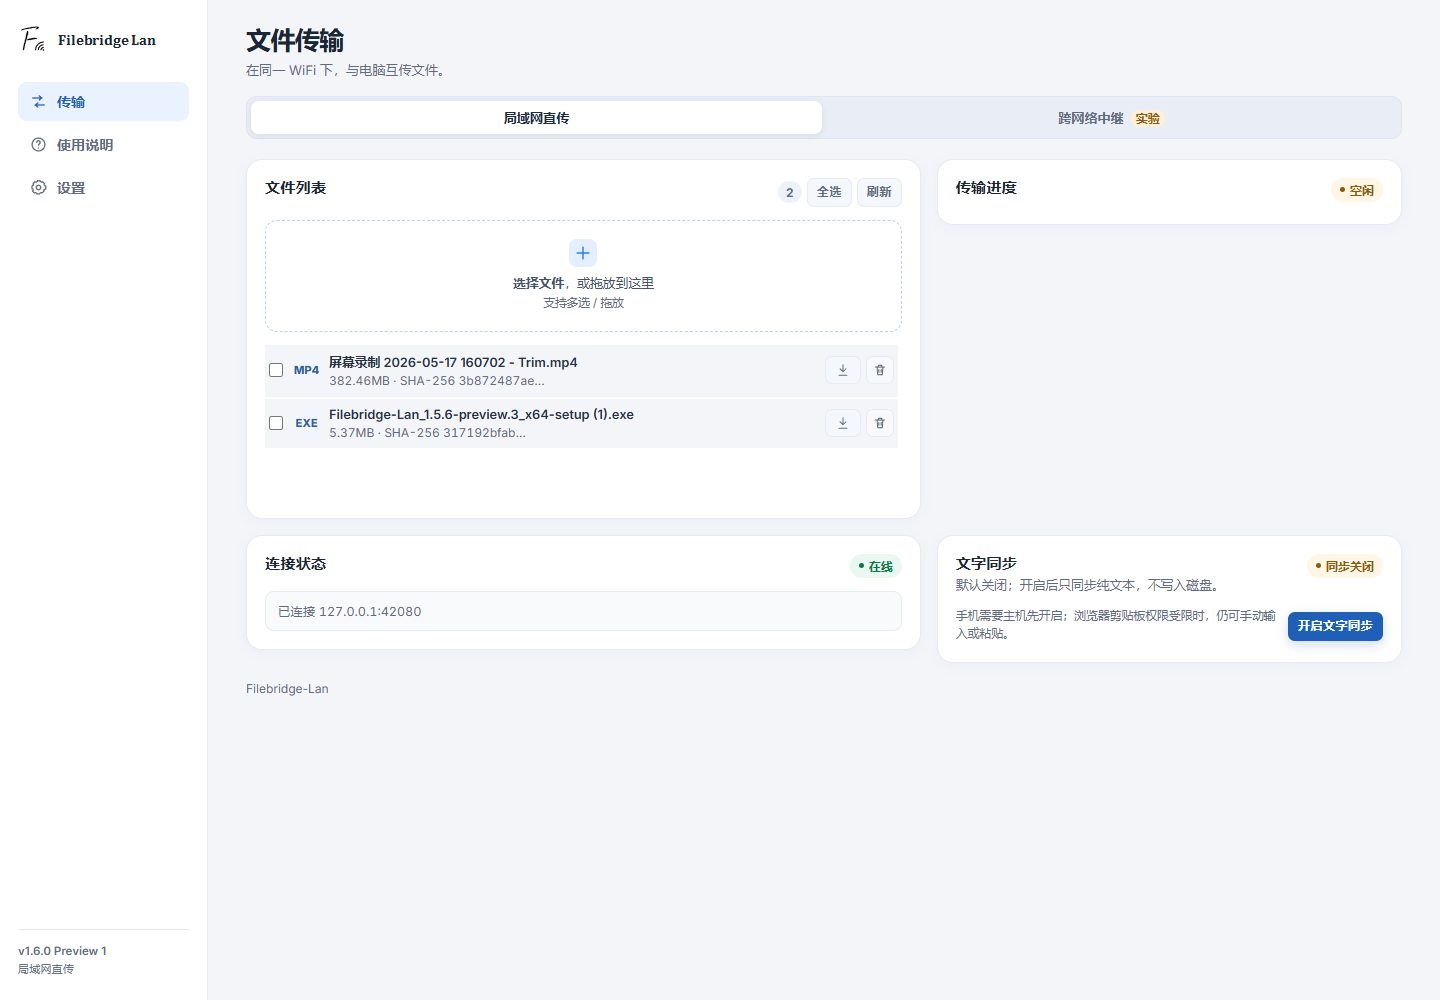
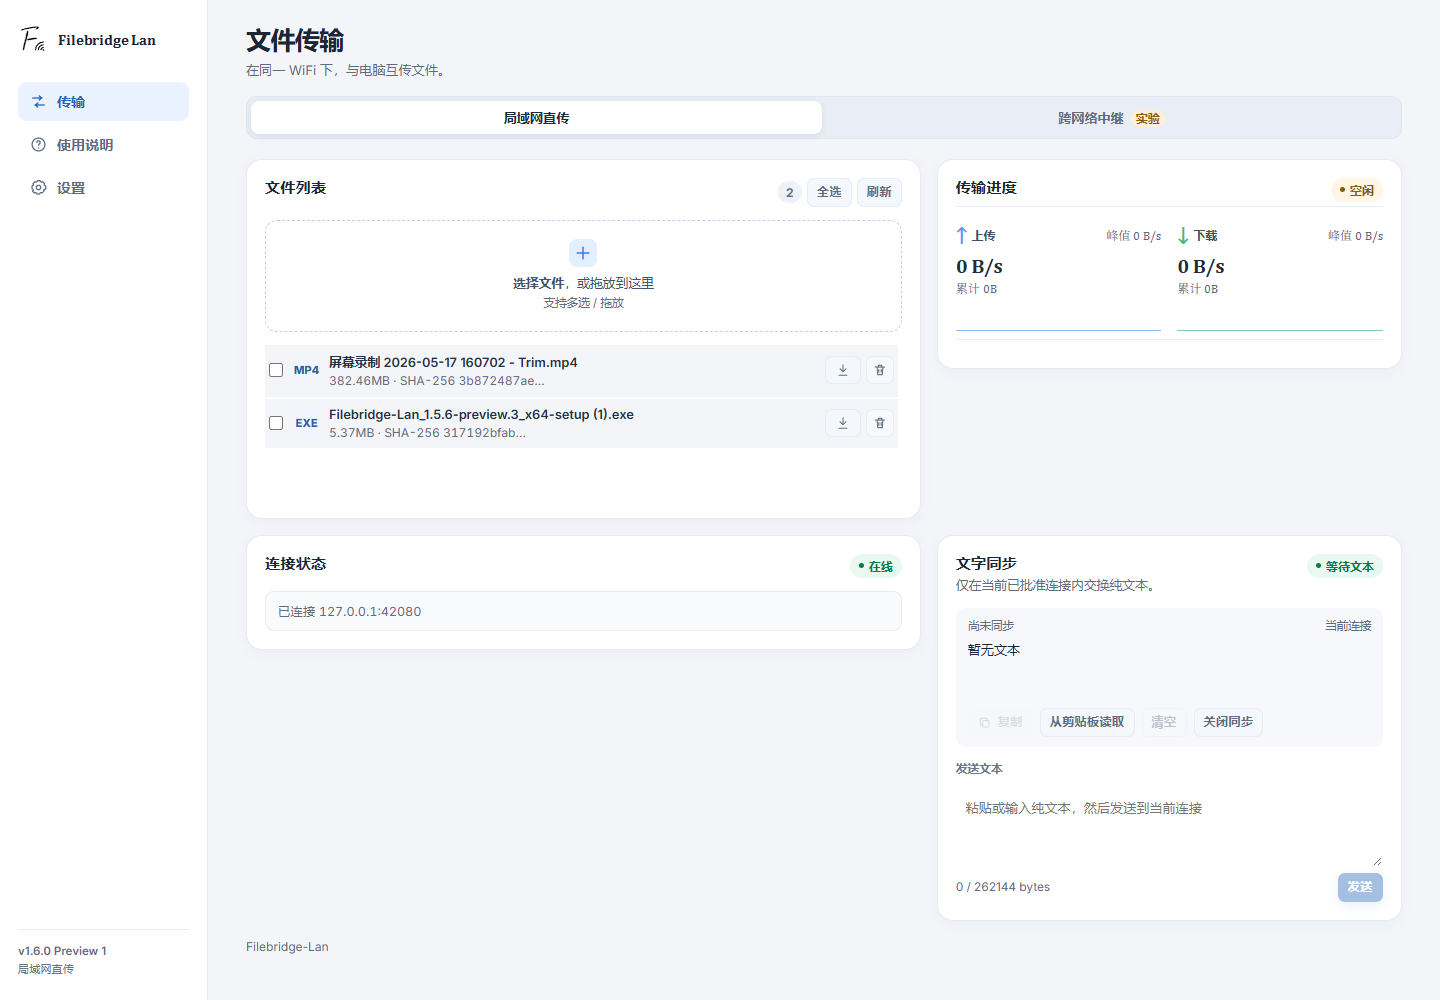
style: keep rates visible and enable text sync by default

diff --git a/src/http/HttpTransfer.tsx b/src/http/HttpTransfer.tsx
@@ -1974,28 +1974,26 @@ export function HttpTransfer({ lanService = null, networkBlocked = false }: Http
             {!hasActiveTransfer && <span className="status-pill warn">空闲</span>}
           </div>
 
-          {hasActiveTransfer && (
-            <div className="rate-grid">
-              <RateCard
-                label="上传"
-                icon="↑"
-                speed={effectiveUploadSpeed}
-                peak={uploadPeak}
-                total={uploadTotal}
-                history={uploadHistory}
-                tone="blue"
-              />
-              <RateCard
-                label="下载"
-                icon="↓"
-                speed={effectiveDownloadSpeed}
-                peak={downloadPeak}
-                total={downloadTotal}
-                history={downloadHistory}
-                tone="green"
-              />
-            </div>
-          )}
+          <div className="rate-grid">
+            <RateCard
+              label="上传"
+              icon="↑"
+              speed={effectiveUploadSpeed}
+              peak={uploadPeak}
+              total={uploadTotal}
+              history={uploadHistory}
+              tone="blue"
+            />
+            <RateCard
+              label="下载"
+              icon="↓"
+              speed={effectiveDownloadSpeed}
+              peak={downloadPeak}
+              total={downloadTotal}
+              history={downloadHistory}
+              tone="green"
+            />
+          </div>
 
           {upload && (
             <div className="progress-block">

diff --git a/src/http/ClipboardPanel.tsx b/src/http/ClipboardPanel.tsx
@@ -45,6 +45,7 @@ export function ClipboardPanel({ token, desktop, online, publicPaused }: Clipboa
   const hashRef = useRef('');
   const lastSystemHashRef = useRef('');
   const syncingRef = useRef(false);
+  const autoEnableRef = useRef(false);
   const enabled = Boolean(snapshot?.enabled);
   const text = snapshot?.text || '';
   const canEnable = desktop || ['localhost', '127.0.0.1', '::1', '[::1]'].includes(window.location.hostname);
@@ -162,6 +163,14 @@ export function ClipboardPanel({ token, desktop, online, publicPaused }: Clipboa
       setBusy(false);
     }
   };
+
+  // Desktop default: enable once when the approved session becomes ready.
+  // A later manual disable is respected because this ref is never reset.
+  useEffect(() => {
+    if (!desktop || !canEnable || paused || !snapshot || snapshot.enabled || autoEnableRef.current) return;
+    autoEnableRef.current = true;
+    void toggle();
+  }, [canEnable, desktop, paused, snapshot?.enabled]);
 
   const send = async (value: string, source: 'desktop' | 'phone' = desktop ? 'desktop' : 'phone') => {
     const body = value;

diff --git a/src-tauri/src/hub.rs b/src-tauri/src/hub.rs
@@ -143,7 +143,7 @@ struct ClipboardInner {
 impl Default for ClipboardInner {
     fn default() -> Self {
         Self {
-            enabled: false,
+            enabled: true,
             text: String::new(),
             hash: None,
             updated_at: None,
@@ -1763,6 +1763,8 @@ mod tests {
         let state = new(0, root.clone(), root.join("dist")).await.expect("hub state");
         let loopback = ConnectInfo(SocketAddr::from(([127, 0, 0, 1], 0)));
         let remote = ConnectInfo(SocketAddr::from(([192, 0, 2, 10], 0)));
+
+        assert!(state.clipboard_snapshot().await.enabled, "clipboard must start enabled");
 
         let denied = clipboard_enable(
             State(state.clone()),

diff --git a/README.md b/README.md
@@ -12,7 +12,7 @@
 
 - **手机免安装**：扫码打开网页即可上传/下载
 - **HTTP 直传**：流式上传、SHA-256、Range 下载、SSE 进度
-- **文字同步**：已批准连接内双向同步纯文本；默认关闭，仅主机本机可开启，内容只存内存
+- **文字同步**：已批准连接内双向同步纯文本；默认开启，可随时关闭；手机不能自行开启，内容只存内存
 - **两种模式**：局域网直传默认选中；跨网络中继（实验）单独入口
 - **电脑互联**：局域网自动发现附近电脑；主机确认后连接。另一台电脑也可直接用浏览器发起请求，无需安装
 - **网络类型门禁**：只有 Private/Domain 才启动 UDP 发现和局域网 Hub；公用网络弹窗提示修改，且关闭弹窗不能绕过门禁
@@ -98,7 +98,7 @@ BRIDGE_PUBLIC_URL=http://127.0.0.1:43000 npm run bridge
 
 主机在传输页开启“文字同步”后，已批准的手机会看到电脑剪贴板的最新纯文本；手机可复制、从剪贴板读取、手动输入或发送文本，电脑会尝试写入系统剪贴板。单条文本上限 256 KiB。
 
-移动浏览器通常不允许后台静默复制或读取系统剪贴板：复制/读取失败时文本仍保留，可长按选择或手动粘贴。文字同步默认关闭，只存于 Hub 内存，断线、关闭同步或 Public 暂停时清空客户端缓存；内容不进入发现广播、URL、普通日志或上传诊断。协议与浏览器限制详见 [docs/CLIPBOARD.md](docs/CLIPBOARD.md)。
+移动浏览器通常不允许后台静默复制或读取系统剪贴板：复制/读取失败时文本仍保留，可长按选择或手动粘贴。文字同步默认开启，可随时关闭；只存于 Hub 内存，断线、关闭同步或 Public 暂停时清空客户端缓存；内容不进入发现广播、URL、普通日志或上传诊断。协议与浏览器限制详见 [docs/CLIPBOARD.md](docs/CLIPBOARD.md)。
 
 ### 跨网络
 

diff --git a/SECURITY.md b/SECURITY.md
@@ -58,7 +58,7 @@ Filebridge-Lan 的目标是**可信局域网**内的个人文件传输：
 
 ## 文字同步
 
-- 默认关闭；只有主机本机 loopback 可以开启，已批准 token 才可读写当前文本。
+- 默认开启，可随时关闭；只有主机本机 loopback 可以切换，已批准 token 才可读写当前文本。
 - 单条文本上限 256 KiB，只接受 text/plain；全局与单 IP 写入限流。
 - 文本仅存 Hub 内存，不落盘、不进入发现广播、URL、普通日志或上传诊断。
 - 发现广播仍只包含设备名、实例 ID、端口和版本；不广播剪贴板状态或内容。

diff --git a/docs/RELEASE-1.6.0-preview.1.md b/docs/RELEASE-1.6.0-preview.1.md
@@ -6,7 +6,7 @@
 
 ## 文字同步
 
-- 默认关闭；只有主机本机可以开启，开启后仅当前已批准并持有有效 token 的连接可读写。
+- 默认开启，可随时关闭；只有主机本机 loopback 可以切换，已批准并持有有效 token 的连接才可读写。
 - 电脑剪贴板文本变化会同步到手机网页；手机发送的文本会写入电脑系统剪贴板。
 - 手机端显示最新文本、更新时间、来源和“复制”按钮，并提供“从剪贴板读取”、手动输入、发送和清空。
 - 文本上限 256 KiB，只支持 `text/plain`；超限明确拒绝。

diff --git a/docs/CLIPBOARD.md b/docs/CLIPBOARD.md
@@ -6,7 +6,7 @@ Status: 1.6.0-preview.1. Node Hub and Rust Hub implement the same contract.
 
 - Every endpoint requires the existing approved bearer token. No token → `401`.
 - Enabling requires a loopback request (`127.0.0.1` / `::1`); remote phone → `403 clipboard_host_only`.
-- Default state is disabled. Disabling clears the in-memory text.
+- The Hub starts enabled so the approved desktop session can begin syncing immediately. The user can disable it at any time, which clears the in-memory text.
 - Text is in memory only; no file, no discovery beacon, no URL query, no normal log.
 
 ## Limits
